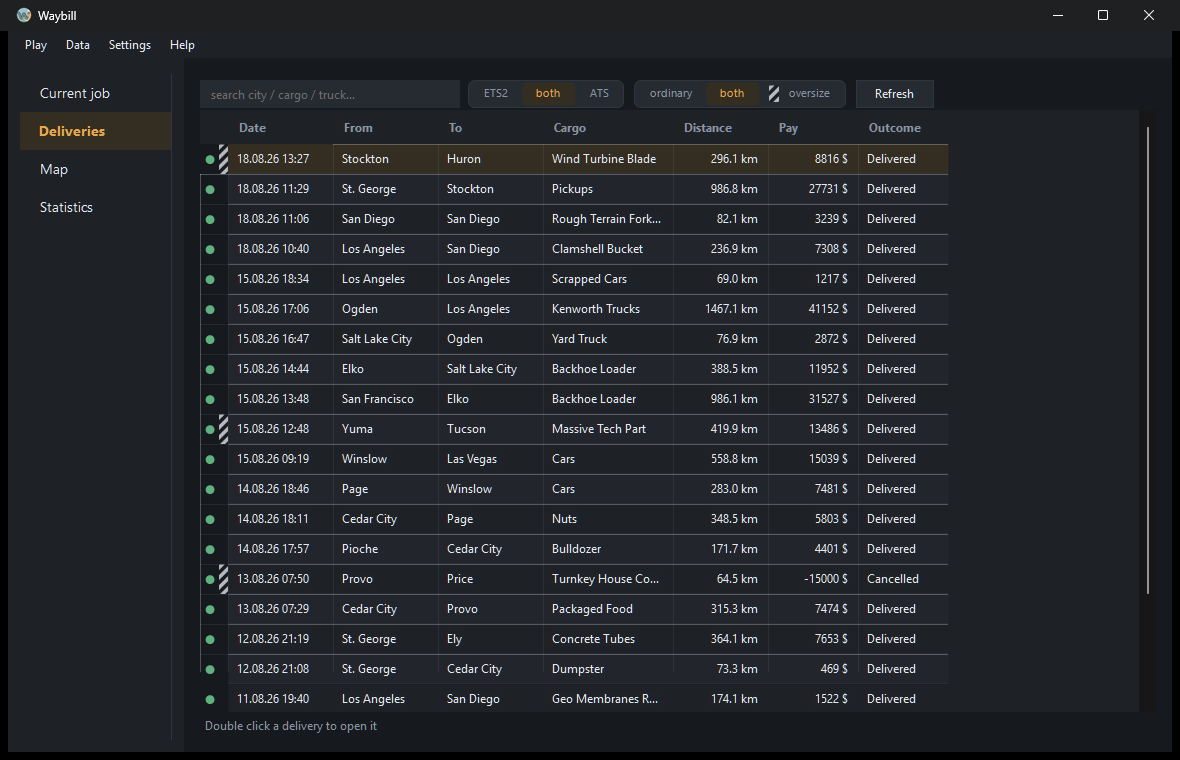
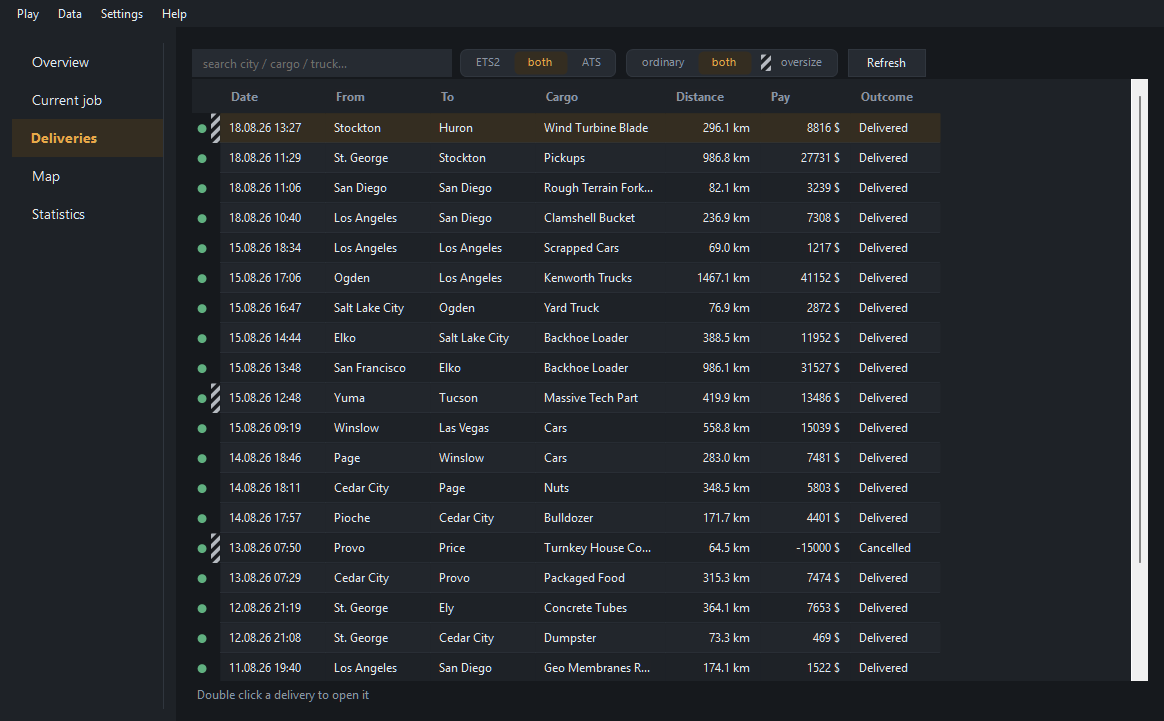
Retake the screenshots with nothing but the window in them
They were copied off the screen, which meant the desktop showed through the
window's own resize border and anything sitting behind it could end up in the
picture. They are now rendered from the window itself and cropped to its client
area, so there is no title bar, no border, and nothing that is not Waybill.

Taken again from the same real database, so they show what the window actually
looks like now: the overview it opens on, the verdict dots and hazard bands down
the left of the list, the two switches above it, and the legend with its four
standings.

Changed region(s): [[0.0, 0.0, 1.0, 1.0], [0.1546, 0.061, 0.2784, 0.0915]]

diff --git a/assets/README.md b/assets/README.md
@@ -4,6 +4,7 @@
 |---|---|
 | `logo.png` | Full resolution logo (700x700). Source for the application icon. |
 | `logo.psd` | Layered source file for editing the logo. |
+| `overview.png` | The page the window opens on. |
 | `deliveries.png` | The delivery history, used at the top of the README. |
 | `delivery-card.png` | One delivery on its own card. |
 | `delivery-route.png` | The same card with the route and timeline slid out. |
@@ -13,27 +14,34 @@
 | `waybill-sheet.png` | A delivery exported as an A4 sheet. |
 | `legend.png` | Every mark the window uses, with what it means. |
 
-Screenshots are taken at 1180x760, which is roughly the window's default size and
-wide enough for the delivery list to show most of its columns without scrolling.
+Screenshots are the window's own area at a size of 1180x760, which is roughly its
+default and wide enough for the delivery list to show most of its columns without
+scrolling. What is kept is the client area only: no title bar, no border, and
+nothing of whatever happened to be behind the window on the desktop. They are
+rendered from the window itself rather than copied off the screen, so nothing
+else can end up in the picture and the window does not have to be in front.
+
 `waybill-sheet.png` is the exception: it is not a screenshot but a real export,
 downscaled from the 300 dpi original to 1000 px tall, so it keeps A4's proportions
 rather than the window's. `legend.png` is the other: it is a dialog, so it is its
 own width, and it was stretched tall enough to show every entry at once rather
 than shown at its default size with half the list below the fold.
+
 Each is named for what it shows rather than for where it happens to appear, so
 moving one around the README does not leave the name lying.
 
 They are captured from a real database rather than staged, which is why the
 figures in them are ordinary rather than tidy.
 
-There is no shot of the *Current job* page, and none of *Overview* either. Both
-only have anything to show while a delivery is actually running, and one taken
-with the game closed says nothing but "waiting for the game" across the part that
-matters, so they are better left out than faked.
+There is no shot of the *Current job* page. It only has anything to show while a
+delivery is actually running, and one taken with the game closed says nothing but
+"waiting for the game", so it is better left out than faked. `overview.png` was
+taken the same way and shows the same empty line across its top card, which is
+kept rather than faked: the rest of the page is what it is there to show.
 
-There is none of the route drawing itself. It is two and a half seconds of
-movement, and a still frame of it is a picture of half a route, which looks like
-a bug rather than like a feature.
+There is none of the route drawing itself either. It is a couple of seconds of
+movement, and a still frame of it is a picture of half a route, which reads as a
+bug rather than as a feature.
 
 There is none of the map at full screen either. It fills whatever monitor it is
 opened on, so the shot would be the size of that monitor rather than the size

diff --git a/README.md b/README.md
@@ -129,16 +129,22 @@ live in `%LOCALAPPDATA%\Waybill\`, independent of where the exe sits.
 Start order does not matter, the app connects to the game as soon as it finds it.
 Jobs are detected and saved without any input.
 
-Five pages down the left. *Overview* is where the window opens, and it is the
-only page that answers "what is going on" rather than a question you have to
-already have. It holds the drive in progress with its route drawn beside it as
-it goes, the last five deliveries, and the three settings worth reaching for.
+Five pages down the left.
+
+*Overview* is where the window opens, and it is the only page that answers "what
+is going on" rather than a question you have to arrive with. It holds the drive
+in progress with its route drawn beside it as it goes, the last five deliveries,
+each opening its own card, and the three settings anybody actually reaches for.
 Nothing on it is new: everything has a page of its own, one click away, and the
-tracker's log stays on *Current job* where it belongs. *Deliveries* is the history. Every row carries its
-verdict as a dot in the gutter on the left, and an oversize load carries hazard
-stripes beside it; hovering the gutter says both in words. Clicking a column
-heading sorts by it, and the order chosen is kept: opening a delivery and coming
-back leaves the list the way it was left rather than back on date order.
+tracker's log stays on *Current job* where it belongs.
+
+![The page the window opens on](assets/overview.png)
+
+*Deliveries* is the history. Every row carries its verdict as a dot in the
+gutter on the left, and an oversize load carries hazard stripes beside it;
+hovering the gutter says both in words. Clicking a column heading sorts by it,
+and the order chosen is kept: opening a delivery and coming back leaves the list
+the way it was left rather than back on date order.
 
 Above the list, a search box and two switches. Each switch has a middle position
 meaning both, one end for **ETS2** and the other for **ATS**, and one end for an
